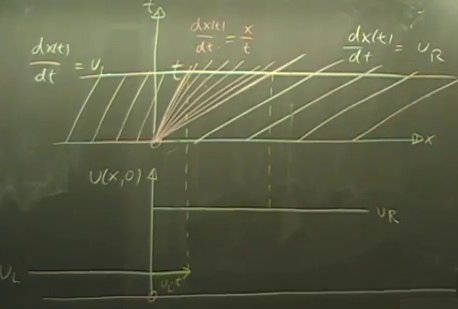
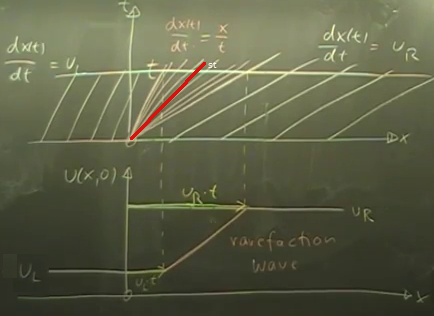
-

diff --git a/compscieng/compscieng_bpp50fv1/compscieng_bpp50fv1.html b/compscieng/compscieng_bpp50fv1/compscieng_bpp50fv1.html
@@ -309,7 +309,15 @@ $$</p>
 <p>Seyreltilmiş Dalga</p>
 <p>İkinci seçenek, seyreltilmiş dalga sonucu, bu zayıf çözüm başlangıçta
 $u_l &lt; u_r$ olduğu zaman ortaya çıkıyor.</p>
+<p><img alt="" src="compscieng_bpp50fv1_02.png" /></p>
+<p>Daha önceki formu tekrarlarsak, karakteristik ve $x,u$ grafiği alt alta,</p>
 <p><img alt="" src="compscieng_bpp50fv1_06.png" /></p>
+<p>Bu grafikte karakteristik çizgilerini bulmak kolay değil, $u_L$, $u_R$ kısımları
+yapılabilir ama ortadaki kısmı anlamak için bu sefer $x,u$ grafiğinden dönerek
+$x,t$'ye gitmek gerekiyor. Altta $u_R \cdot t$ ve $u_L \cdot t$ noktaları
+bulunduktan sonra doğal olan onların düz çizgi ile birleştirilmesidir, bu çizgi
+de karakteristiklerdeki o yayılma (fan) şeklini ortaya çıkartır, tam ortasnda da
+tabii ki şok cizgisi olacaktır. </p>
 <p>[devam edecek]</p>
 <p>$$
 u(x,t) =
@@ -329,7 +337,6 @@ x/t &amp; u_l \le x/t \le u_r  \\
 u_r &amp; x/t &gt; u_r 
 \end{array} \right. 
 $$</p>
-<p><img alt="" src="compscieng_bpp50fv1_02.png" /></p>
 <p>Çözümün Burgers denklemi için doğru olduğunun sağlamasını yapmak zor değil
 [9, sf. 34], mesela orta şart $u_l \le x/t \le u_r $ kısmına bakalım,
 bu çözümü (2a)'ya sokarsak,</p>

diff --git a/compscieng/compscieng_bpp50fv1/sonlu_hacim__finite_volume__yontemi__1.html b/compscieng/compscieng_bpp50fv1/sonlu_hacim__finite_volume__yontemi__1.html
@@ -309,7 +309,15 @@ $$</p>
 <p>Seyreltilmiş Dalga</p>
 <p>İkinci seçenek, seyreltilmiş dalga sonucu, bu zayıf çözüm başlangıçta
 $u_l &lt; u_r$ olduğu zaman ortaya çıkıyor.</p>
+<p><img alt="" src="compscieng_bpp50fv1_02.png" /></p>
+<p>Daha önceki formu tekrarlarsak, karakteristik ve $x,u$ grafiği alt alta,</p>
 <p><img alt="" src="compscieng_bpp50fv1_06.png" /></p>
+<p>Bu grafikte karakteristik çizgilerini bulmak kolay değil, $u_L$, $u_R$ kısımları
+yapılabilir ama ortadaki kısmı anlamak için bu sefer $x,u$ grafiğinden dönerek
+$x,t$'ye gitmek gerekiyor. Altta $u_R \cdot t$ ve $u_L \cdot t$ noktaları
+bulunduktan sonra doğal olan onların düz çizgi ile birleştirilmesidir, bu çizgi
+de karakteristiklerdeki o yayılma (fan) şeklini ortaya çıkartır, tam ortasnda da
+tabii ki şok cizgisi olacaktır. </p>
 <p>[devam edecek]</p>
 <p>$$
 u(x,t) =
@@ -329,7 +337,6 @@ x/t &amp; u_l \le x/t \le u_r  \\
 u_r &amp; x/t &gt; u_r 
 \end{array} \right. 
 $$</p>
-<p><img alt="" src="compscieng_bpp50fv1_02.png" /></p>
 <p>Çözümün Burgers denklemi için doğru olduğunun sağlamasını yapmak zor değil
 [9, sf. 34], mesela orta şart $u_l \le x/t \le u_r $ kısmına bakalım,
 bu çözümü (2a)'ya sokarsak,</p>

diff --git a/compscieng/compscieng_bpp50fv1/compscieng_bpp50fv1.tex b/compscieng/compscieng_bpp50fv1/compscieng_bpp50fv1.tex
@@ -375,19 +375,18 @@ Seyreltilmiş Dalga
 İkinci seçenek, seyreltilmiş dalga sonucu, bu zayıf çözüm başlangıçta
 $u_l < u_r$ olduğu zaman ortaya çıkıyor.
 
+\includegraphics[width=20em]{compscieng_bpp50fv1_02.png}
+
+Daha önceki formu tekrarlarsak, karakteristik ve $x,u$ grafiği alt alta,
+
 \includegraphics[width=20em]{compscieng_bpp50fv1_06.png}
 
-
-
-
-
-
-
-
-
-
-
-
+Bu grafikte karakteristik çizgilerini bulmak kolay değil, $u_L$, $u_R$ kısımları
+yapılabilir ama ortadaki kısmı anlamak için bu sefer $x,u$ grafiğinden dönerek
+$x,t$'ye gitmek gerekiyor. Altta $u_R \cdot t$ ve $u_L \cdot t$ noktaları
+bulunduktan sonra doğal olan onların düz çizgi ile birleştirilmesidir, bu çizgi
+de karakteristiklerdeki o yayılma (fan) şeklini ortaya çıkartır, tam ortasnda da
+tabii ki şok cizgisi olacaktır. 
 
 
 
@@ -416,8 +415,6 @@ x/t & u_l \le x/t \le u_r  \\
 u_r & x/t > u_r 
 \end{array} \right. 
 $$
-
-\includegraphics[width=20em]{compscieng_bpp50fv1_02.png}
 
 Çözümün Burgers denklemi için doğru olduğunun sağlamasını yapmak zor değil
 [9, sf. 34], mesela orta şart $u_l \le x/t \le u_r $ kısmına bakalım,
